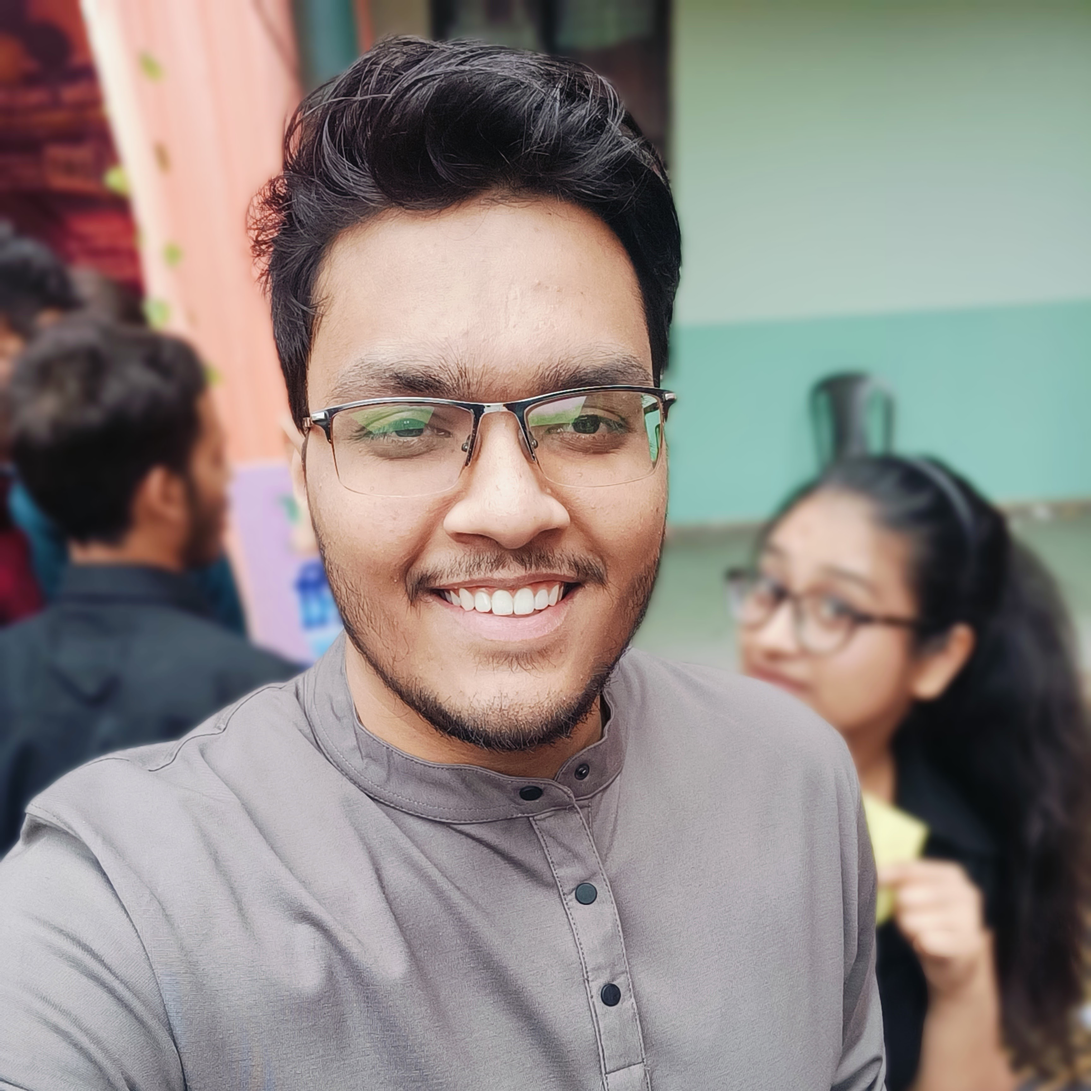
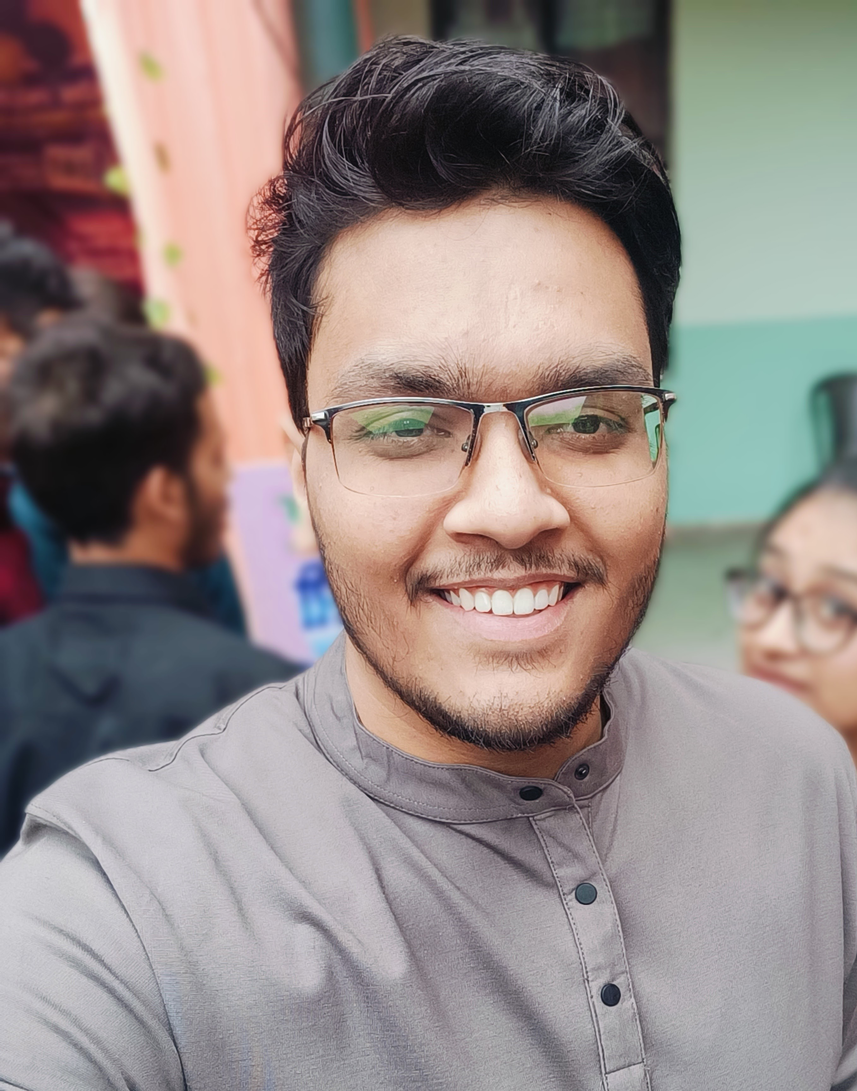
pic changed

diff --git a/index.html b/index.html
@@ -40,7 +40,7 @@
     <section id="profile">
         
         <div class="section_pic_container">
-            <img src="./assets/profile-pic-2.jpg" alt="Shivam Profile Pic">
+            <img src="./assets/profile-pic-1-copy.jpg" alt="Shivam Profile Pic">
         </div>
         
         <div class="section_text">
